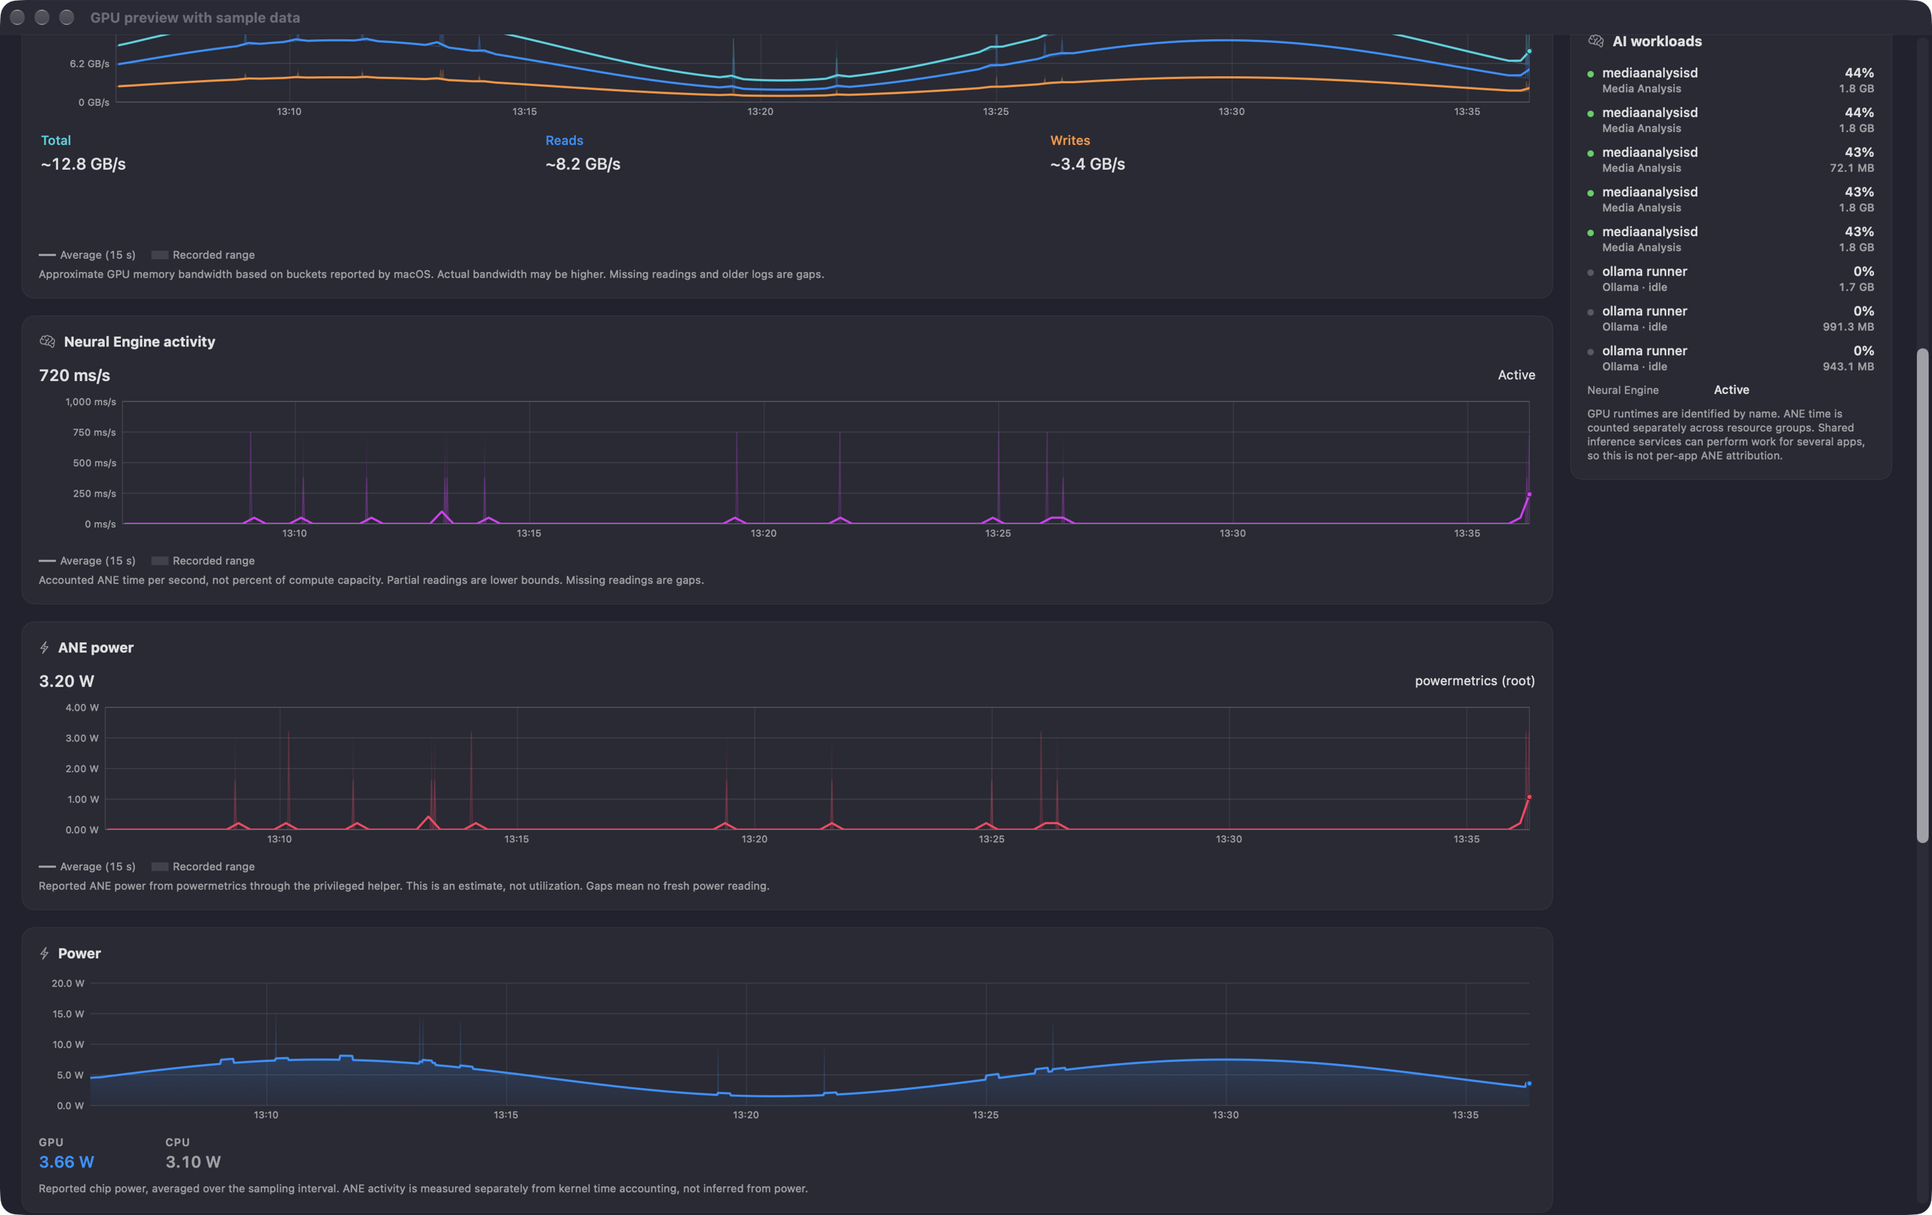
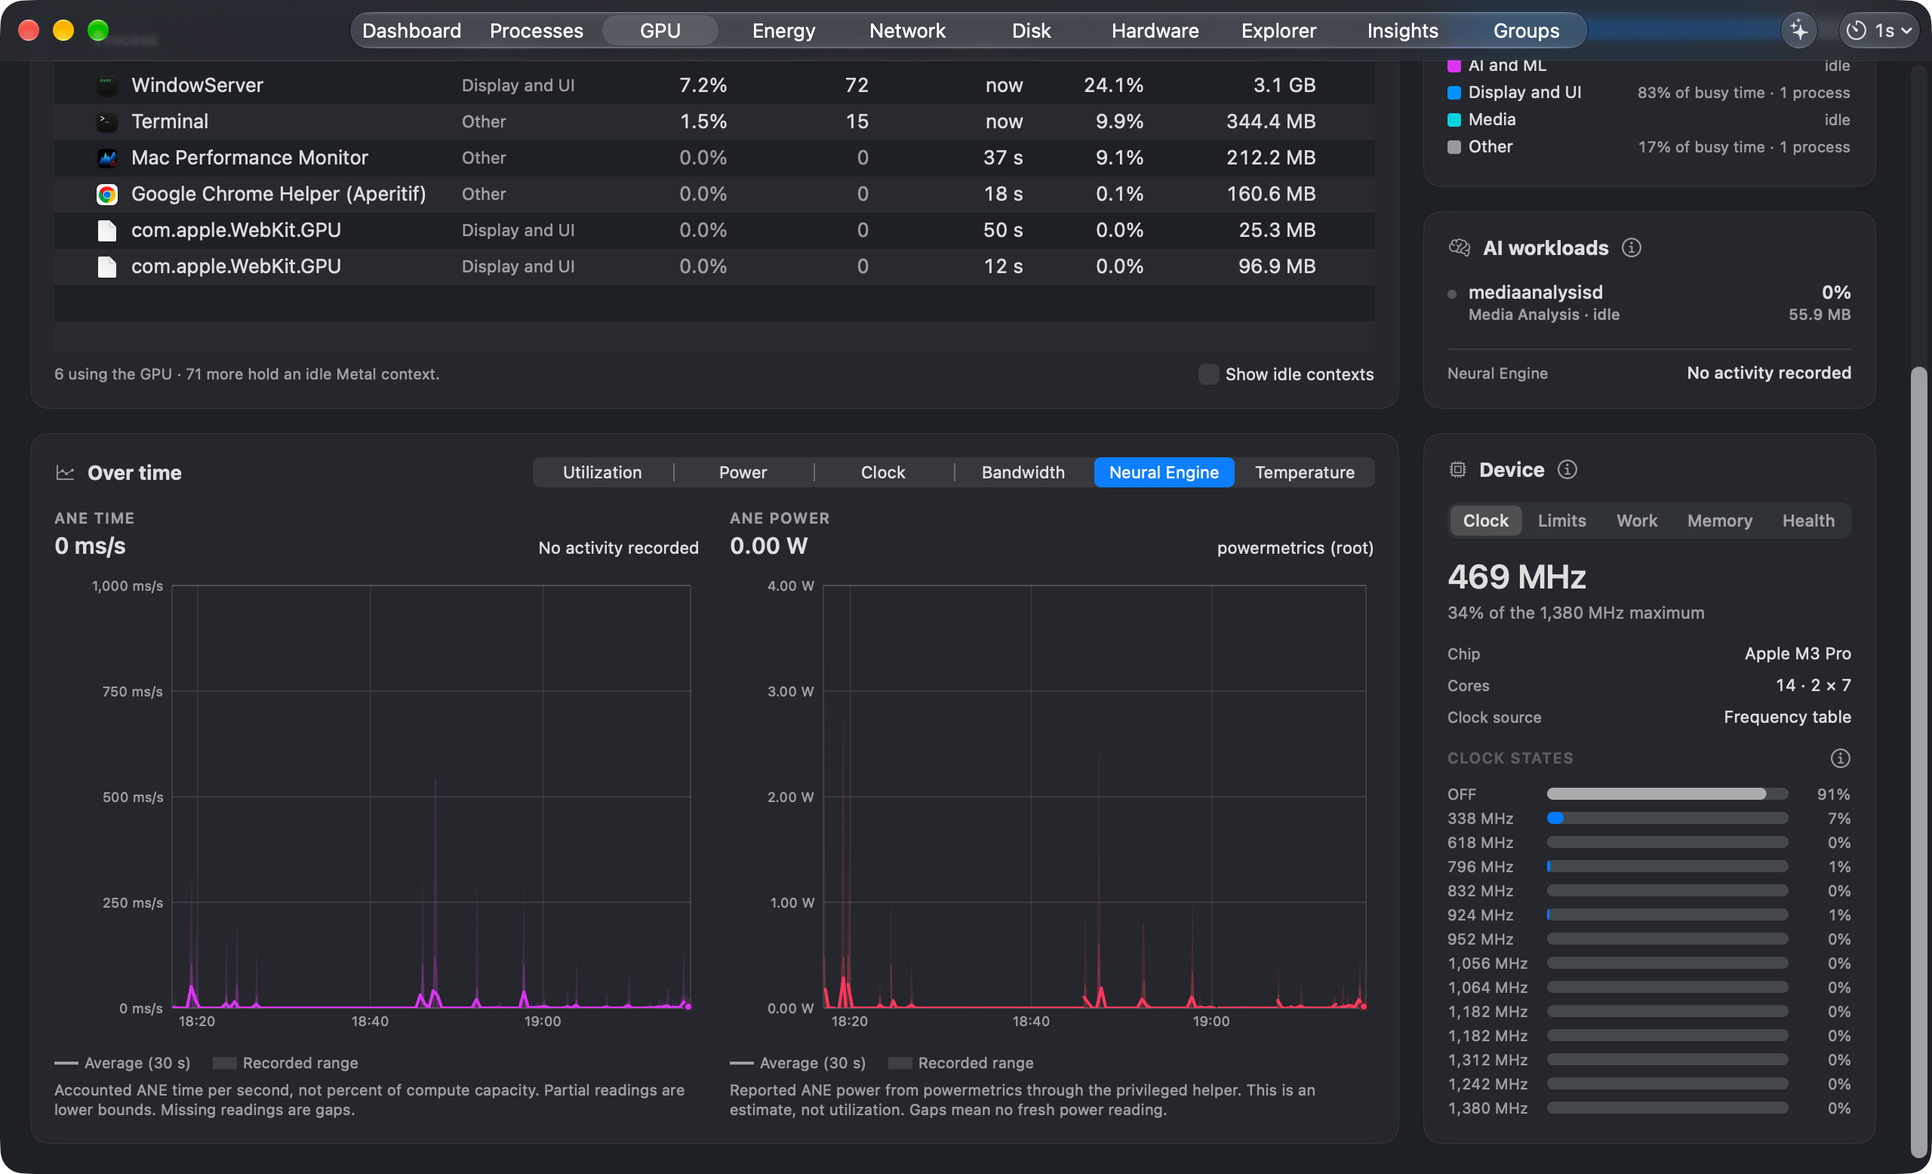
Refresh screenshots with real data and bring the README up to 2.7
Retake every README screenshot on a real Mac with no sample data, and
cover identifying details (host name, network and hardware addresses,
serial number, personal device and volume names). Add GPU Device and
Hardware Ports images. The release checklist records how they were made.

Replace the README's New In 2.2 section with New In 2.7 and a short list
of recent releases, keep the Explorer, alerts, Ask and battery guides as
standing sections, drop the removed MLX and llama.cpp licence lines, and
add the OpenMacApps badge.

diff --git a/README.md b/README.md
@@ -14,6 +14,7 @@
 [![No telemetry](https://img.shields.io/badge/telemetry-none-2ea44f)](#privacy)
 [![Crowdin](https://img.shields.io/badge/Crowdin-translate-2E3340?logo=crowdin&logoColor=white)](https://crowdin.com/project/mac-performance-monitor)
 [![License](https://img.shields.io/github/license/Zesty0wl/mac-performance-monitor?label=license)](LICENSE)
+[![Listed on OpenMacApps](https://openmacapps.com/badge.svg)](https://openmacapps.com/apps/mac-performance-monitor/)
 
 A native macOS **performance monitor and recorder**. See what your Mac is doing
 now, then go back to the moment a slowdown or spike began. Compare CPU, memory,
@@ -24,83 +25,67 @@ open when needed. The menu bar and history recorder have separate switches.
 
 Free and open source. No usage telemetry. Recorded samples stay on your Mac.
 
-[2.2 release notes](RELEASE_NOTES.md) · [Changelog](CHANGELOG.md) ·
+[2.7 release notes](RELEASE_NOTES.md) · [Changelog](CHANGELOG.md) ·
 [Documentation](docs/README.md)
 
-[![Explorer showing linked machine and process charts with a value inspector](docs/images/explorer.png)](docs/images/explorer.png)
+[![Explorer lining up memory pressure with the CPU and memory of the processes behind it](docs/images/explorer.png)](docs/images/explorer.png)
 
-## New In 2.2
+## New In 2.7
 
-This update adds more GPU history, an opt-in Ask preview, process usage timelines,
-and saved time ranges. The app still supports Apple silicon Macs on macOS 15 or later.
+The GPU tab now shows what the GPU is doing, not just how busy it is, and
+update checks no longer interrupt you.
 
-- **GPU and Neural Engine:** Total, Reads, and Writes share a historical
-  bandwidth chart, marked Preview because the values are estimates from macOS
-  buckets. ANE Time and ANE Power are separate readings and charts. ANE Time
-  needs macOS 27; ANE Power needs the approved Full Coverage helper. GPU Memory
-  and GPU awake now have recorded detail charts.
+- **Inside the GPU:** the Device panel has five pages, all read without
+  administrator rights. **Clock** compares the average clock while awake with
+  the chip's top clock. **Limits** shows what held the clock back and the
+  performance lost. **Work** breaks down compute, fragment and geometry
+  submissions. **Memory** shows the GPU's wired-memory limit and headroom.
+  **Health** counts recoveries, firmware restarts, killed work and thermal
+  activations. Over time gains a recorded Clock chart.
 
-- **Ask About This Mac:** on macOS 27, ask a plain question such as "Why is my
-  Mac slow?" or tap an area like Memory or Battery. The app checks its own
-  readings and history, then Apple's on-device model explains them in everyday
-  language, with links to the matching charts. Nothing leaves your Mac, and the
-  area summaries work even when Apple Intelligence is off. Answers can still be
-  wrong, so the facts behind each one are a click away.
+- **Quieter updates:** scheduled checks never open a window or take focus.
+  When an update is ready, an **Update** button appears in the main window and
+  the menu bar menus. "Check for updates automatically" and "Install updates
+  automatically" in Settings > General now work.
 
-- **AI agents:** hand a harder question to Claude Code, Codex or another agent.
-  Ask copies a prompt that explains the recorded history, or the one-line setup
-  for the bundled read-only MCP server:
+- **Shared Macs:** everyone signed in can run the app at the same time, each
+  in their own account. The privileged helper still limits standard users to
+  their own processes.
 
-  ```sh
-  claude mcp add --scope user mac-performance-monitor -- "/Applications/Mac Performance Monitor.app/Contents/MacOS/mpm" mcp
-  ```
+See the [release notes](RELEASE_NOTES.md) for requirements and the
+[changelog](CHANGELOG.md) for every change.
 
-  Run `mpm help` for the command-line tool. The [AI agents guide](docs/ai-agents.md)
-  covers Claude Code, Codex, Claude Desktop, Cursor and VS Code, what agents
-  can ask, and what leaves your Mac.
+## Recent Releases
 
-- **Usage Timeline:** right-click a process to see when the recorder observed
-  it running. Optional Apple app and media activity needs Full Disk Access and
-  a per-window opt-in. It is not verified foreground-use history.
+- **2.6:** the Processes tab's **Apps** layout adds up each app's memory and
+  CPU across all of its processes, including the helpers macOS starts for it.
+  Russian joins the languages. A security review tightened the privileged
+  helper, force quit and the uninstaller.
+  [Details](CHANGELOG.md#260---2026-11-01)
 
-- **Saved ranges:** history views start at 30 minutes and remember their own
-  range. Explorer also keeps your chosen zoom span.
+- **2.5:** Hardware > **Ports** checks every USB-C, MagSafe, HDMI and SD port,
+  including cable ratings and slow chargers. The Disk page leads with a card
+  for each drive, the energy menu shows where the power comes from, and
+  Explorer charts fill the window. [Details](CHANGELOG.md#250---2026-10-25)
 
-New history grows from new recordings; older logs stay gaps for fields they
-never stored. See the [release notes](RELEASE_NOTES.md) for requirements and
-limits, and the [release checklist](docs/release-checklist.md) for verification details.
+- **2.4:** in menu-only tests, idle memory fell from about 160 MiB to about
+  70 MiB. The GPU tab is about half as tall.
+  [Details](CHANGELOG.md#240---2026-10-17)
 
-## New In 2.1
+- **2.3:** Ask About This Mac opens with a plain status for each part of the
+  Mac. The app ships `mpm`, a read-only command-line tool and MCP server for
+  AI agents. Temperatures follow your Mac's unit, and alerts flag a program
+  that keeps a core busy for an hour. [Details](CHANGELOG.md#230---2026-10-04)
 
-All six Energy cards open larger charts and explanations. Charge, runtime,
-Mac power draw, and battery temperature have their own detail ranges. Health
-and Cycles show daily history over months and years, kept separate for each
-battery pack. Long-term history grows from new readings with recording on.
+## Explorer: Investigate A Moment
 
-Runtime uses macOS estimates or recent steady use. A dashed forecast stays
-separate from real charge data. It assumes the same workload, not a fixed
-promise of how long the battery will last.
-
-The Accessories panel shows the battery levels macOS reports for mice,
-keyboards, AirPods, and other devices. Optional low-battery alerts live in
-Settings > Alerts. Checks run at most once a minute; unknown values stay unknown.
-
-Process detail and Explorer can show earlier, non-overlapping runs of the same
-program, with gaps at restarts. The Dashboard also shows uptime and the boot date.
-
-[Energy guide](docs/energy-design.md)
-
-## New In 2.0
-
-### Explorer: Investigate A Moment
-
-Explorer replaces the Analytics start screen with a workspace for live and
-recorded data. Pick a time, add the signals you need, and compare up to eight
-processes, including ones that have exited.
+Explorer is a workspace for live and recorded data. Pick a time, add the
+signals you need, and compare up to eight processes, including ones that have
+exited.
 
 Hover to move a shared cursor across the charts. Click to pin a time. Hold
 **Command and scroll** to zoom around the pointer; ordinary scrolling still
-moves the page. Use a grid, a list, or an expanded chart for a closer look.
+moves the page. Charts fill the window, or choose how many fit on screen.
 
 The inspector shows source values, timestamps, known bounds, and stored machine
 rows. Export the visible data as CSV, or share process history in a trace file.
@@ -109,15 +94,16 @@ Hardware inventory is a current snapshot, separate from history.
 
 [Explorer guide](docs/explorer-design.md)
 
-### Alerts Based On Change
+## Alerts Based On Change
 
-High swap usage alone is not a reason to warn you. The new rules look for
+High swap usage alone is not a reason to warn you. The rules look for
 continued growth or paging strain. They can report further worsening without
 first waiting for usage to fall below an old fixed limit.
 
 Process-growth checks reject stale readings and growth that has settled.
 Modest findings stay as quiet observations, not a diagnosis of a memory leak.
-A separate fast-growth check can catch runaway use without waiting 20 minutes.
+A separate fast-growth check can catch runaway use without waiting 20 minutes,
+and a program that keeps about a core busy for an hour is flagged too.
 
 Click the menu bar alert badge for active issues and their evidence. Snooze an
 ordinary alert for an hour, or open it in Explorer at the relevant time.
@@ -125,26 +111,54 @@ Related memory alerts share a notice, and only critical notices request sound.
 
 [Adaptive alert rules and limits](docs/adaptive-alerts.md)
 
-### Upgrading From 1.x
+## Ask And AI Agents
+
+On macOS 27, **Ask About This Mac** opens with a one-line verdict and a status
+for each part of the Mac. Tap one, or ask a plain question such as "Why is my
+Mac slow?". The app checks its own readings and history, then Apple's on-device
+model explains them in everyday language, with links to the matching charts.
+Nothing leaves your Mac, and the area summaries work even when Apple
+Intelligence is off. Answers can still be wrong, so the facts behind each one
+are a click away.
+
+Hand a harder question to Claude Code, Codex or another agent. Ask copies a
+prompt that explains the recorded history, or the one-line setup for the
+bundled read-only MCP server:
+
+```sh
+claude mcp add --scope user mac-performance-monitor -- "/Applications/Mac Performance Monitor.app/Contents/MacOS/mpm" mcp
+```
+
+Run `mpm help` for the command-line tool. The [AI agents guide](docs/ai-agents.md)
+covers Claude Code, Codex, Claude Desktop, Cursor and VS Code, what agents
+can ask, and what leaves your Mac.
+
+## Battery History
+
+All six Energy cards open larger charts and explanations. Health and Cycles
+show daily history over months and years, kept separate for each battery pack.
+Long-term history grows from new readings with recording on.
+
+Runtime uses macOS estimates or recent steady use. A dashed forecast stays
+separate from real charge data. It assumes the same workload, not a fixed
+promise of how long the battery will last.
+
+The Accessories panel shows the battery levels macOS reports for mice,
+keyboards, AirPods, and other devices. Optional low-battery alerts live in
+Settings > Alerts.
+
+[Energy guide](docs/energy-design.md)
+
+## Upgrading From 1.x
 
 Existing alert choices and history carry forward. The old swap threshold is
-no longer used, but explicit process-memory budgets remain available. Alert
-state is local and separate from full history recording. New database fields
-preserve detail from new samples; they cannot restore missing older readings.
+no longer used, but explicit process-memory budgets remain available. New
+database fields preserve detail from new samples; they cannot restore missing
+older readings.
 
 Back up the app's data before testing a downgrade. Review the
 [upgrade notes](CHANGELOG.md#upgrade-notes) and [privacy policy](SECURITY.md)
 before sharing trace files, reports, or screenshots.
-
-### Clearer Charts And Details
-
-Dashboard and Explorer charts show a clear average over the translucent recorded
-range. Short bursts stay visible, missing readings stay missing, and historical
-shapes remain stable as new data arrives.
-
-Dashboard cards open larger detail views with values and explanations. The
-menu bar panels keep stable layouts as readings change. The Dock icon follows
-the window, with a setting to keep it visible.
 
 ## Monitor Your Mac
 
@@ -191,55 +205,76 @@ the window, with a setting to keep it visible.
 
 ## Screenshots
 
-GPU, Ask, and Usage Timeline examples use the real native views with sample
-data. They illustrate the interface, not a benchmark or a verified AI diagnosis.
-Capture details are in the [release checklist](docs/release-checklist.md).
+Every screenshot shows real readings from one MacBook Pro (M3 Pro) running
+the app, with no sample data. Hostnames, network and hardware addresses,
+serial numbers, and personal device and volume names are covered with grey
+boxes. Capture details are in the [release checklist](docs/release-checklist.md).
 
 ### Dashboard
 
 The current overview: pressure, memory, CPU, network, disk, and thermal trends.
 
-[![Dashboard with metric cards, memory breakdown, and recorded activity charts](docs/images/dashboard.png)](docs/images/dashboard.png)
+[![Dashboard with memory cards, a memory pressure chart, CPU cores and memory composition](docs/images/dashboard.png)](docs/images/dashboard.png)
 
 ### Processes
 
-A live process table with a detailed inspector for the selected process.
+The Apps layout adds up each app's memory and CPU across all of its processes.
+Selecting an app lists the processes working for it.
 
-![Processes](docs/images/processes.png)
+![Processes in the Apps layout with Safari's 15 processes in the inspector](docs/images/processes.png)
 
 ### Process Usage Timeline
 
-Sampled running history and optional Apple activity occupy separate lanes.
-This example uses sample data, not a person's activity records.
+Sampled running history for one process over 24 hours. Apple app and media
+activity are optional lanes, left off here.
 
-![Usage Timeline showing sampled running, app activity, and media activity separately](docs/images/usage-timeline.png)
+![Usage Timeline showing a process's sampled running history over 24 hours](docs/images/usage-timeline.png)
 
-### Ask Preview
+### Ask About This Mac
 
-Current measured reports remain available with AI off. This example uses
-sample readings. Questions, explanations, and Siri sharing have separate controls.
+On macOS 27, Ask opens with a plain status for each part of the Mac, based on
+the last hour.
 
-![Ask Preview showing a current memory report with on-device AI off](docs/images/ask-preview.png)
+![Ask About This Mac with a status tile for each part of the Mac](docs/images/ask-preview.png)
 
 ### Energy
 
-Battery health, power flow, and accessory batteries. This overview is cropped
-to leave the battery serial number out of the image.
+Charge, power draw, battery health and cycles, accessory batteries, and the
+processes drawing the most power.
 
-![Energy](docs/images/energy.png)
+![Energy with battery cards, accessory batteries, battery health and energy flow](docs/images/energy.png)
 
 ### GPU
 
-GPU memory and awake-time history, separate ANE cards, and the bandwidth
-Preview chart. The approximation caveat appears once beneath the chart.
-This current-source capture uses sample readings.
+Live GPU, power, memory, awake time and Neural Engine readings, with the
+processes using the GPU and what kind of work they do.
 
-![GPU preview showing recorded bandwidth for total, reads, and writes alongside utilization and clock states](docs/images/gpu.png)
+![GPU tab with headline cards, the processes using the GPU, and work by category](docs/images/gpu.png)
 
-ANE Time and ANE Power have independent units and history. These are sample
-readings, not evidence that an app used a particular processor.
+The Device panel shows the GPU's clock against its top clock and time at each
+clock state, with the clock recorded in Over time.
 
-![Separate Neural Engine activity and power charts with ms/s and watt axes](docs/images/gpu-neural-engine.png)
+![GPU clock history beside the Device panel's clock states](docs/images/gpu-device.png)
+
+### Network
+
+Throughput history and each network adapter.
+
+![Network throughput chart and adapters](docs/images/network.png)
+
+### Disk
+
+A card for each drive with free space, connection, and live reads and writes,
+beside the internal drive's health.
+
+![Disk page with drive cards, read and write charts, and drive health](docs/images/disk.png)
+
+### Hardware Ports
+
+Each port shows what is plugged in, the negotiated data links, and plain
+diagnostics.
+
+![Hardware Ports detail for a USB-C port with a hub connected](docs/images/ports.png)
 
 ## Install
 
@@ -282,9 +317,9 @@ signing. Ad-hoc builds cannot use the privileged helper. See
 No usage telemetry or analytics. Recorded performance data and alert evidence
 stay on your Mac. Exports leave it only when you choose to share them.
 
-Update checks, model downloads, signed content downloads, and network tools
-make network requests. They do not upload your recorded performance history.
-Ask uses local models and clears its conversation when closed. If you hand an
+Update checks, signed check and glossary downloads, and network tools make
+network requests. They do not upload your recorded performance history.
+Ask uses Apple's on-device model and clears its conversation when closed. If you hand an
 investigation to an AI agent such as Claude Code, the agent sends what it reads
 to its provider. Optional Siri
 and Shortcuts sharing follows Apple's processing rules and can pass results
@@ -308,7 +343,4 @@ and review process.
 
 Released under the [MIT License](LICENSE). Bundles
 [GRDB.swift](https://github.com/groue/GRDB.swift) (MIT) and
-[Sparkle](https://sparkle-project.org) (MIT). Local inference also uses
-[MLX](https://github.com/ml-explore/mlx-swift) and
-[llama.cpp](https://github.com/ggml-org/llama.cpp), with their dependency licences
-in the app bundle. Model downloads include their own licence and attribution files.
+[Sparkle](https://sparkle-project.org) (MIT).

diff --git a/docs/release-checklist.md b/docs/release-checklist.md
@@ -1,5 +1,40 @@
 # Release Checklist
 
+## Screenshot Refresh (11 November 2026)
+
+Every README and website screenshot was retaken from build 314 (2.7.0 plus
+unreleased process controls, which do not appear in any image) on a
+MacBook Pro with Apple M3 Pro, macOS 27.2. All readings are real recorded
+data from that Mac. No sample data, fixtures, or generated load were used.
+
+Windows were captured at 1280 by 778 points (2560 by 1556 pixels) with
+`screencapture -l`, without shadows. A text-recognition pass then covered
+identifying text with solid grey boxes: the computer and host name, owner and
+household names (including in device names such as AirPods), IPv4, IPv6 and
+MAC addresses, the router address, the Mac's serial number and hardware UUID,
+and the external volume name. Values beside Serial, UUID, MAC, IP and SSID
+labels are covered even when recognition misreads them. Each image was then
+checked by eye, and a second recognition pass over the finished files found
+no remaining identifiers.
+
+| Image | Content |
+| --- | --- |
+| [Dashboard](images/dashboard.png) | 1 hour range. |
+| [Explorer](images/explorer.png) | A real memory pressure spike, 18:45 to 19:15, opened with an `mpm link` style URL and four processes. |
+| [Processes](images/processes.png) | Apps layout with Safari selected. |
+| [Usage Timeline](images/usage-timeline.png) | One process, 24 hours. Apple app and media activity left off, so no personal activity records were read. |
+| [Ask](images/ask-preview.png) | Overview tiles only. A real Memory answer was not used: its first sentence contradicted itself. |
+| [Energy](images/energy.png) | Owner's name covered in the AirPods name. |
+| [GPU](images/gpu.png), [GPU Device](images/gpu-device.png), [Neural Engine](images/gpu-neural-engine.png) | 1 hour range; Device panel on Clock. |
+| [Network](images/network.png) | Hostname, router, IP and MAC addresses covered. |
+| [Disk](images/disk.png) | External volume name covered. |
+| [Hardware](images/hardware.png), [Ports](images/ports.png) | Serial number covered; Ports shows USB-C 1 with a hub. |
+| [Insights](images/insights.png) | Not in the README gallery; refreshed for existing links. |
+
+Not refreshed: `analytics.png` (the Analytics screen no longer exists),
+`disk-map.png` (a scan shows file and folder names), and
+`display-capture-load.png` (documents one specific screen-capture event).
+
 ## 2.2.1 Release
 
 The maintainer approved publishing 2.2.1 on 23 September 2026 to fix
